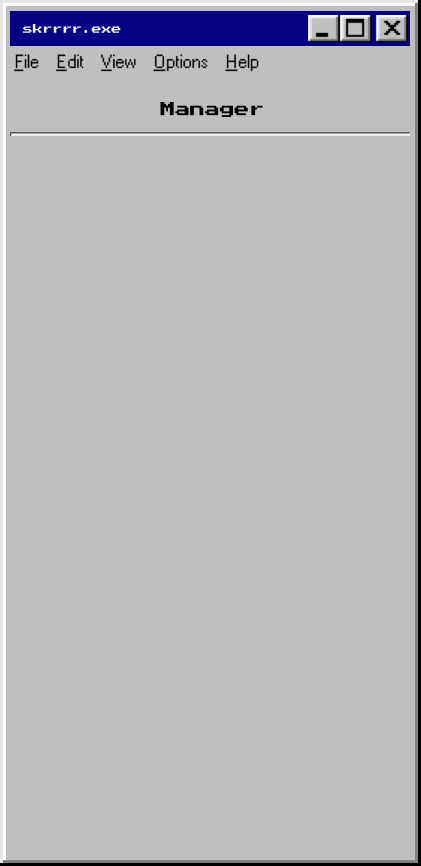
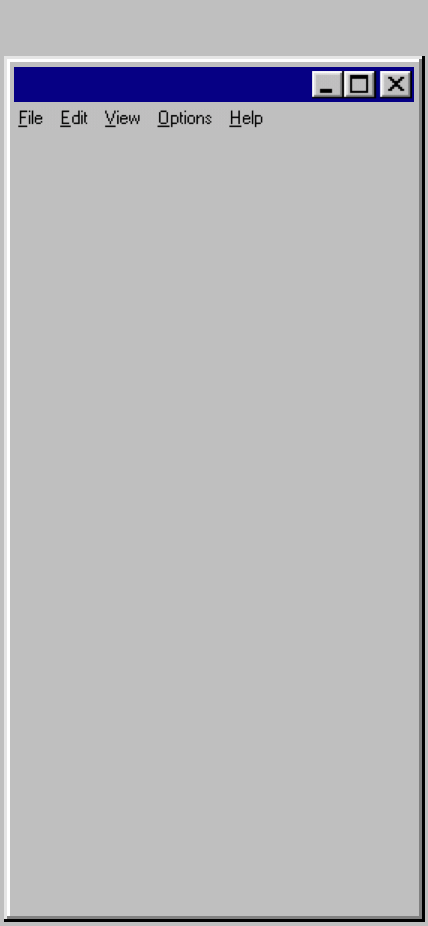
style 수정

Changed region(s): [[0.0, 0.0, 1.0, 1.0]]

diff --git a/admin/style.css b/admin/style.css
@@ -2,9 +2,15 @@
 
 /* 모바일에 최적화된 CSS 코드 */
 @media (max-width: 767px) {
-    .page {
+    /* .page {
         position: relative;
         height: 5000px;
+    } */
+
+    .page {
+        position: relative;
+        height: 100vh;
+        overflow: auto;
     }
 
     .background {
@@ -18,8 +24,12 @@
         background-position: center;
         z-index: -1;
     }
-      
+
     .content {
+        height: 100%;
+        display: flex;
+        flex-direction: column;
+        /* justify-content: center; */
         font-family: 'Press Start 2P', cursive;
         font-size: 12px;
         position: relative;
@@ -30,13 +40,40 @@
         color: #fff;
     }
 
+    .content-header {
+        position: fixed;
+        top: 9.5rem;
+        z-index: 1;
+        width: 23.5rem;
+    }
+
+    .order-list {
+        position: sticky;
+        top: 15rem;
+        height: calc(100vh - 15rem);
+        overflow-y: auto; 
+    }
+
+    .admin-title {
+        color: #000000;
+        font-size: 15px;
+    }
+
+    #separation {
+        margin-top: 10px;
+        margin-bottom: 15px;
+    }
+
     button {
         font-family: 'Press Start 2P';
         font-size: 1rem;
         color: #000000;
         padding: 0 auto;
         background-color: #BFBFBF !important;
-        border: 1px solid #FFFFFF;
+        border-top: 1px solid #FFFFFF;
+        border-left: 1px solid #FFFFFF;
+        border-bottom: 1px solid #5E5E5E;
+        border-right: 1px solid #5E5E5E;
     }
 
     .order-button {
@@ -44,12 +81,26 @@
         padding: 0.2rem 0;
     }
 
+    #in-progress-order-button {
+        margin-left: -0.2rem;
+    }
+
+    #complete-order-button {
+        margin-right: -0.2rem;
+    }
+
     #in-progress-order-button.active {
-        border: 1px solid #5E5E5E;
+        border-top: 1px solid #5E5E5E;
+        border-left: 1px solid #5E5E5E;
+        border-bottom: 1px solid #FFFFFF;
+        border-right: 1px solid #FFFFFF;
     }
 
     #complete-order-button.active {
-        border: 1px solid #5E5E5E;
+        border-top: 1px solid #5E5E5E;
+        border-left: 1px solid #5E5E5E;
+        border-bottom: 1px solid #FFFFFF;
+        border-right: 1px solid #FFFFFF;
     }
 
     .button-wrap {
@@ -79,7 +130,7 @@
     .order-box {
         display: flex;
         flex-direction: column;
-        margin: 10px 0;
+        margin-bottom: 10px;
         padding: 10px;
         border: 1px solid #FFFFFF;
         color: #000000;
@@ -124,10 +175,8 @@
     }
 
     .food-state {
-        background-color: #fff;
-        border: 1px solid #000000;
-        width: 66px;
-        margin-top: 3px;
+        margin-top: 2px;
+        display: flex;
         padding: 3px;
     }
 
@@ -152,6 +201,7 @@
 
     .complete-button {
         margin-top: 1.5rem;
+        padding: 3px 0;
         width: 10rem;
         display: flex;
         flex-direction: column;

diff --git a/admin/admin.html b/admin/admin.html
@@ -14,12 +14,18 @@
     <div class="page">
         <div class="background"></div>
         <div class="content">
-            <div class="button-wrap">
-                <button class="order-button" id="in-progress-order-button">진행중인 주문</button>
-                <button class="order-button" id="complete-order-button">완료 주문</button>
+            <div class="content-header">
+                <div class="admin-title">Manager</div>
+                <hr id="separation">
+                <div class="button-wrap">
+                    <button class="order-button" id="in-progress-order-button">진행중인 주문</button>
+                    <button class="order-button" id="complete-order-button">완료 주문</button>
+                </div>
             </div>
-            <div class="order-container"></div>
-            <div class="completed-order-container"></div>
+            <div class="order-list">
+                <div class="order-container"></div>
+                <div class="completed-order-container"></div>
+            </div>
         </div>
     </div>
     <script type="module" src="admin.js"></script> 

diff --git a/admin/admin.js b/admin/admin.js
@@ -42,7 +42,7 @@ data.forEach(order => {
             </div>
             <div class="order-table-info">
                 <span class="table-number">table ${order.table_num}</span>
-                <span class="food-state">${table_status}</span>
+                <span class="food-state">123</span>
             </div>
         </div>
     `;
@@ -70,7 +70,7 @@ data.forEach(order => {
     orderBox.appendChild(completeButtonWrap);
 
     const completeButton = document.createElement('button');
-    completeButton.textContent = '완료';
+    completeButton.textContent = 'finish';
     completeButton.classList.add('complete-button');
     
     // 진행 중인 주문이 맞으면 orderBox를 orderContainer에 추가
